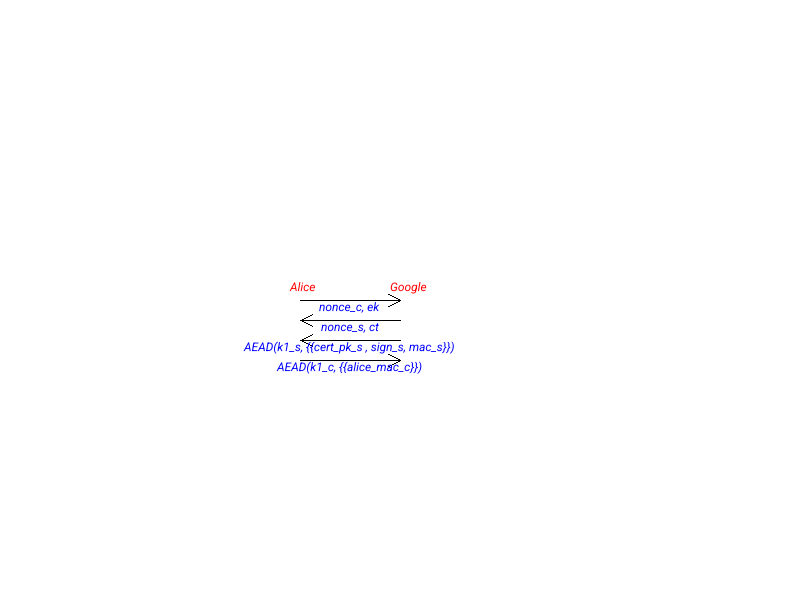
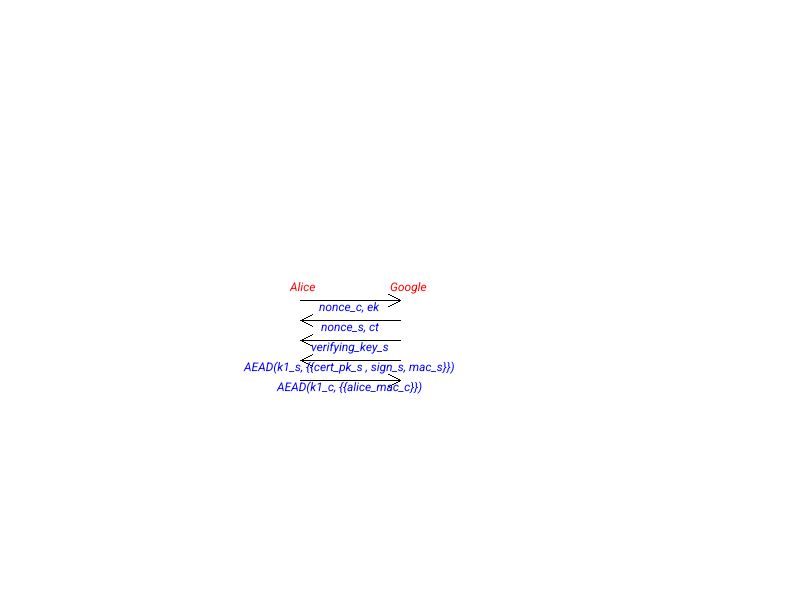
fix: fix key issue in task 1

Changed region(s): [[0.3125, 0.57, 0.5625, 0.66]]

diff --git a/Homework_2/PQ-TLS/src/main.rs b/Homework_2/PQ-TLS/src/main.rs
@@ -1,9 +1,11 @@
 use image::EncodableLayout;
 use kem::{Decapsulate, Encapsulate};
 use ml_dsa::signature::{Signer, Verifier};
-use ml_kem::{KemCore, MlKem768};
+use ml_kem::{EncodedSizeUser, KemCore, MlKem768};
 use sha2::{Digest, Sha256};
 use std::thread;
+use ml_dsa::{KeyGen, MlDsa65, Seed};
+use crypto_bigint::rand_core::RngCore;
 use crate::crypto::{graph, participant};
 use crate::crypto::graph::render_graph;
 use crate::crypto::hmac::{compute_hmac, verify_hmac};
@@ -26,14 +28,13 @@ fn run() {
     let mut graph = graph::Graph::new();
     let mut rng = rand::thread_rng();
     let nonce = [0u8; 12];
+    let mut seed = Seed::default();
+    rng.fill_bytes(seed.as_mut());
 
     println!("--- Initializing ---");
     let ca = participant::CA::new(rng.clone());
     let alice = User::new("Alice".into(), rng.clone(), &mut graph);
     let google = User::new("Google".into(), rng.clone(), &mut graph);
-
-    let google_verifying_key_from_alice = alice.verifying_key();
-    let alice_verifying_key_from_google = google.verifying_key();
 
 // Alice ---------------------------------------------------------------------------------------------------
     let (alice_dk, alice_ek) = MlKem768::generate(&mut rng);
@@ -41,40 +42,41 @@ fn run() {
     alice.send_message("nonce_c, ek".to_string(), google.id(), &mut graph);
     println!("--- Sending nonce_c, ek from Alice to Google ---");
     let google_nonce_from_alice = alice.nonce();
-    let google_ek_from_alice = alice_ek;
+    let google_ek_from_alice = alice_ek.clone();
 
 // Google ---------------------------------------------------------------------------------------------------
+    let google_key_pair = MlDsa65::from_seed(&seed);
     let (google_ct, google_shared_key) = google_ek_from_alice.encapsulate(&mut rng).unwrap();
 
     // Calculate K1_c, K1_s, K2_c, K2_s
     let (google_k1_c, google_k1_s) = key_schedule_1(google_shared_key.as_bytes());
     let (google_k2_c, google_k2_s) = key_schedule_2(
         google_nonce_from_alice.clone().as_bytes(),
-        google_verifying_key_from_alice.encode().as_bytes(),
+        google_ek_from_alice.as_bytes().as_bytes(),
         google.nonce().clone().as_bytes(),
-        google.verifying_key().encode().as_bytes(),
+        google_key_pair.verifying_key().encode().as_bytes(),
         google_shared_key.as_bytes(),
     );
 
     // Get certificate for google's public key
-    let google_cert = ca.generate_certificate(google.verifying_key().encode().as_bytes());
+    let google_cert = ca.generate_certificate(google_key_pair.verifying_key().encode().as_bytes());
 
     // Calculate google's signature
     let mut sign_digest_input = Vec::new();
     sign_digest_input.extend_from_slice(google_nonce_from_alice.clone().as_bytes());
-    sign_digest_input.extend_from_slice(google_verifying_key_from_alice.encode().as_bytes());
+    sign_digest_input.extend_from_slice(google_ek_from_alice.as_bytes().as_bytes());
     sign_digest_input.extend_from_slice(google.nonce().as_bytes());
-    sign_digest_input.extend_from_slice(google.verifying_key().encode().as_bytes());
+    sign_digest_input.extend_from_slice(google_key_pair.verifying_key().encode().as_bytes());
     sign_digest_input.extend_from_slice(google_cert.encode().as_bytes());
 
-    let google_sign = google.signing_key().sign(&Sha256::digest(&sign_digest_input));
+    let google_sign = google_key_pair.signing_key().sign(&Sha256::digest(&sign_digest_input));
 
     // Calculate google's MAC tag
     let mut mac_s_input = Vec::new();
     mac_s_input.extend_from_slice(google_nonce_from_alice.clone().as_bytes());
-    mac_s_input.extend_from_slice(google_verifying_key_from_alice.encode().as_bytes());
+    mac_s_input.extend_from_slice(google_ek_from_alice.as_bytes().as_bytes());
     mac_s_input.extend_from_slice(google.nonce().as_bytes());
-    mac_s_input.extend_from_slice(google.verifying_key().encode().as_bytes());
+    mac_s_input.extend_from_slice(google_key_pair.verifying_key().encode().as_bytes());
     mac_s_input.extend_from_slice(google_sign.encode().as_bytes());
     mac_s_input.extend_from_slice(google_cert.encode().as_bytes());
     mac_s_input.extend_from_slice(b"ServerMAC");
@@ -84,9 +86,9 @@ fn run() {
     // Calculate K3_c, K3_s
     let (google_k3_c, google_k3_s) = key_schedule_3(
         google_nonce_from_alice.clone().as_bytes(),
-        google_verifying_key_from_alice.encode().as_bytes(),
+        google_ek_from_alice.as_bytes().as_bytes(),
         google.nonce().as_bytes(),
-        google.verifying_key().encode().as_bytes(),
+        google_key_pair.verifying_key().encode().as_bytes(),
         google_shared_key.as_bytes(),
         google_sign.encode().as_bytes(),
         google_cert.encode().as_bytes(),
@@ -98,6 +100,10 @@ fn run() {
     let alice_nonce_from_google = google.nonce();
     let alice_ct_from_google = google_ct;
 
+    google.send_message("verifying_key_s".to_string(), alice.id(), &mut graph);
+    println!("--- Sending verifying_key_s from Google to Alice ---");
+    let alice_verifying_key_from_google = google_key_pair.verifying_key();
+
     google.send_message("AEAD(k1_s, {{cert_pk_s , sign_s, mac_s}})".to_string(), alice.id(), &mut graph);
     println!("--- Sending AEAD(k1_s, {{cert_pk_s , sign_s, mac_s}}) from Google to Alice ---");
     let mut msg = Vec::new();
@@ -106,9 +112,9 @@ fn run() {
     msg.extend_from_slice(google_mac_s.as_bytes());
     let mut google_ad = Vec::new();  // ("Alice", "Google", A, G) Set the associate data as "('Alice', 'Google', A, G)", where A and G are the pk's of ALice and Google, respectively
     google_ad.extend_from_slice(b"Alice,Google,");
-    google_ad.extend_from_slice(google_verifying_key_from_alice.encode().as_bytes());
+    google_ad.extend_from_slice(google_ek_from_alice.as_bytes().as_bytes());
     google_ad.extend_from_slice(b",");
-    google_ad.extend_from_slice(google.verifying_key().encode().as_bytes());
+    google_ad.extend_from_slice(google_key_pair.verifying_key().encode().as_bytes());
 
     let cypher_text_1: Vec<u8> = match crypto::aead::encrypt(&google_k1_s, &nonce, msg.as_bytes(), &google_ad) {
         Ok(c) => c,
@@ -124,7 +130,7 @@ fn run() {
     let (alice_k1_c, alice_k1_s) = key_schedule_1(alice_shared_key.as_bytes());
     let (alice_k2_c, alice_k2_s) = key_schedule_2(
         alice.nonce().clone().as_bytes(),
-        alice.verifying_key().encode().as_bytes(),
+        alice_ek.as_bytes().as_bytes(),
         alice_nonce_from_google.clone().as_bytes(),
         alice_verifying_key_from_google.encode().as_bytes(),
         alice_shared_key.as_bytes(),
@@ -133,7 +139,7 @@ fn run() {
     // Decrypt the received AEAD message
     let mut alice_ad = Vec::new();  // ("Alice", "Google", A, G) Set the associate data as "('Alice', 'Google', A, G)", where A and G are the pk's of ALice and Google, respectively
     alice_ad.extend_from_slice(b"Alice,Google,");
-    alice_ad.extend_from_slice(alice.verifying_key().encode().as_bytes());
+    alice_ad.extend_from_slice(alice_ek.as_bytes().as_bytes());
     alice_ad.extend_from_slice(b",");
     alice_ad.extend_from_slice(alice_verifying_key_from_google.encode().as_bytes());
     let decrypted_msg_1: Vec<u8> = match crypto::aead::decrypt(&alice_k1_s, &nonce, &cypher_text_1, &alice_ad) {
@@ -156,7 +162,7 @@ fn run() {
     // Calculate K3_c, K3_s
     let (alice_k3_c, alice_k3_s) = key_schedule_3(
         alice.nonce().clone().as_bytes(),
-        alice.verifying_key().encode().as_bytes(),
+        alice_ek.as_bytes().as_bytes(),
         alice_nonce_from_google.as_bytes(),
         alice_verifying_key_from_google.encode().as_bytes(),
         alice_shared_key.as_bytes(),
@@ -168,13 +174,13 @@ fn run() {
     // Verify the signature, certificate and MAC tag from google
     let mut expected_sign_msg = Vec::new();
     expected_sign_msg.extend_from_slice(alice.nonce().clone().as_bytes());
-    expected_sign_msg.extend_from_slice(alice.verifying_key().encode().as_bytes());
+    expected_sign_msg.extend_from_slice(alice_ek.as_bytes().as_bytes());
     expected_sign_msg.extend_from_slice(alice_nonce_from_google.as_bytes());
     expected_sign_msg.extend_from_slice(alice_verifying_key_from_google.encode().as_bytes());
     expected_sign_msg.extend_from_slice(alice_cert_from_google.as_bytes());
     let mut expected_mac_s_input = Vec::new();
     expected_mac_s_input.extend_from_slice(alice.nonce().clone().as_bytes());
-    expected_mac_s_input.extend_from_slice(alice.verifying_key().encode().as_bytes());
+    expected_mac_s_input.extend_from_slice(alice_ek.as_bytes().as_bytes());
     expected_mac_s_input.extend_from_slice(alice_nonce_from_google.as_bytes());
     expected_mac_s_input.extend_from_slice(alice_verifying_key_from_google.encode().as_bytes());
     expected_mac_s_input.extend_from_slice(alice_sign_from_google.as_bytes());
@@ -188,7 +194,7 @@ fn run() {
     // Generate MAC
     let mut mac_c_input = Vec::new();
     mac_c_input.extend_from_slice(alice.nonce().clone().as_bytes());
-    mac_c_input.extend_from_slice(alice.verifying_key().encode().as_bytes());
+    mac_c_input.extend_from_slice(alice_ek.as_bytes().as_bytes());
     mac_c_input.extend_from_slice(alice_nonce_from_google.as_bytes());
     mac_c_input.extend_from_slice(alice_verifying_key_from_google.encode().as_bytes());
     mac_c_input.extend_from_slice(alice_sign_from_google.as_bytes());
@@ -221,9 +227,9 @@ fn run() {
     // Verify the MAC tag from Alice
     let mut expected_mac_c_input = Vec::new();
     expected_mac_c_input.extend_from_slice(google_nonce_from_alice.clone().as_bytes());
-    expected_mac_c_input.extend_from_slice(google_verifying_key_from_alice.encode().as_bytes());
+    expected_mac_c_input.extend_from_slice(google_ek_from_alice.as_bytes().as_bytes());
     expected_mac_c_input.extend_from_slice(google.nonce().as_bytes());
-    expected_mac_c_input.extend_from_slice(google.verifying_key().encode().as_bytes());
+    expected_mac_c_input.extend_from_slice(google_key_pair.verifying_key().encode().as_bytes());
     expected_mac_c_input.extend_from_slice(google_sign.encode().as_bytes());
     expected_mac_c_input.extend_from_slice(google_cert.encode().as_bytes());
     expected_mac_c_input.extend_from_slice(b"ClientMAC");

diff --git a/Homework_2/PQ-TLS/src/crypto/participant.rs b/Homework_2/PQ-TLS/src/crypto/participant.rs
@@ -1,6 +1,6 @@
 use crate::crypto::graph::{Graph, Point};
 use crypto_bigint::rand_core::RngCore;
-use ml_dsa::{signature::{Signer}, KeyGen, KeyPair, MlDsa65, Seed, Signature, SigningKey, VerifyingKey};
+use ml_dsa::{signature::Signer, KeyGen, KeyPair, MlDsa65, Seed, Signature, VerifyingKey};
 use rand::rngs::ThreadRng;
 use std::sync::atomic::{AtomicU64, Ordering};
 
@@ -8,36 +8,23 @@ static USER_COUNTER: AtomicU64 = AtomicU64::new(0);
 
 pub struct User {
     id: u64,
-    key_pair: KeyPair<MlDsa65>,
     nonce: [u8; 8],
 }
 
 impl User {
     pub fn new(name: String, mut rng: ThreadRng, graph: &mut Graph) -> Self {
         let id = USER_COUNTER.fetch_add(1, Ordering::SeqCst);
-        let mut seed = Seed::default();
-        rng.fill_bytes(seed.as_mut());
-        let kp = MlDsa65::from_seed(&seed);
         graph.positions.insert(id, Point { x: (id as i32) * 100 + 300, y: 300 });
         graph.names.insert(id, name.clone());
         let val: [u8; 8] = rng.next_u64().to_le_bytes();
         User {
             id,
-            key_pair: kp,
             nonce: val,
         }
     }
 
     pub fn id(&self) -> u64 {
         self.id.clone()
-    }
-
-    pub fn signing_key(&self) -> &SigningKey<MlDsa65> {
-        self.key_pair.signing_key()
-    }
-
-    pub fn verifying_key(&self) -> &VerifyingKey<MlDsa65> {
-        self.key_pair.verifying_key()
     }
 
     pub fn nonce(&self) -> [u8; 8] {
